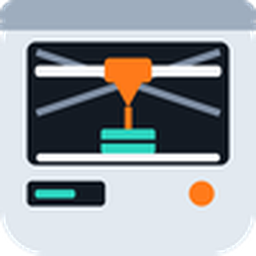
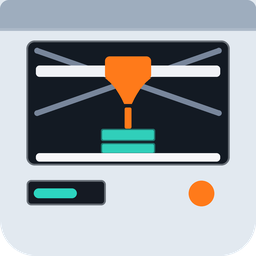
assets: ストア用アイコンを拡大でなく図形で描き直す
100 px を拡大した klipperdeck_256.png はぼやけていたため、同じ CoreXY の
箱型デザインを 100 単位の座標で図形として描き、2048 px から縮小して作る。
描画スクリプトを tools/draw_app_icon.py に置く。ランチャー用の 100 / 80 px は
#25 で小さいサイズ向けに調整したものをそのまま使う。

diff --git a/tools/draw_app_icon.py b/tools/draw_app_icon.py
@@ -1,0 +1,100 @@
+"""Draws the app icon (the CoreXY box printer of assets/images/klipperdeck.png) at store size.
+
+klipperdeck.png, klipperdeck_100.png and klipperdeck_80.png are the hand-tuned launcher sizes.
+The store needs a square PNG of 128 to 512 px, so this redraws the same design as shapes on the
+100-unit grid of those files, at 2048 px, and scales it down.
+
+Usage: python tools/draw_app_icon.py [output dir]   (default: assets/images)
+Needs Pillow.
+"""
+import sys
+
+from PIL import Image, ImageDraw
+
+OUT = sys.argv[1] if len(sys.argv) > 1 else "assets/images"
+S = 2048
+k = S / 100.0
+
+TOP_BAND = (158, 173, 190)
+TOP_EDGE = (172, 185, 200)
+BODY = (226, 233, 240)
+OUTLINE = (103, 110, 118)
+WINDOW = (19, 26, 35)
+BELT = (120, 134, 155)
+RAIL = (240, 242, 246)
+ORANGE = (255, 122, 26)
+TEAL = (48, 207, 186)
+TEAL_DARK = (32, 116, 110)
+BED = (247, 247, 250)
+PANEL = (21, 26, 35)
+SCREEN = (45, 213, 192)
+
+
+def p(*xy):
+    return [v * k for v in xy]
+
+
+img = Image.new("RGBA", (S, S), (0, 0, 0, 0))
+d = ImageDraw.Draw(img)
+
+
+def rrect(box, r, fill, corners=None, outline=None, width=0):
+    d.rounded_rectangle(p(*box), radius=r * k, fill=fill, corners=corners,
+                        outline=outline, width=int(round(width * k)))
+
+
+def line(a, b, w, fill):
+    d.line(p(*a, *b), fill=fill, width=int(round(w * k)))
+    for x, y in (a, b):
+        r = w / 2
+        d.ellipse(p(x - r, y - r, x + r, y + r), fill=fill)
+
+
+# Enclosure: small radius on top, large at the bottom.
+rrect((0, 0, 100, 100), 14, BODY, corners=(False, False, True, True))
+rrect((0, 0, 100, 30), 3.5, BODY, corners=(True, True, False, False))
+# Top band with a lighter lower edge.
+rrect((0, 0, 100, 12), 3.5, TOP_BAND, corners=(True, True, False, False))
+d.rectangle(p(0, 11, 100, 12), fill=TOP_EDGE)
+
+# Front window.
+rrect((10.3, 15.8, 89.7, 64.6), 3.2, WINDOW, outline=OUTLINE, width=0.7)
+
+# CoreXY belts (crossing behind the print head).
+line((14.5, 19.8), (48, 31.5), 2.2, BELT)
+line((85.5, 19.8), (52, 31.5), 2.2, BELT)
+line((14.5, 44.2), (48, 32.5), 2.2, BELT)
+line((85.5, 44.2), (52, 32.5), 2.2, BELT)
+
+# Gantry rail.
+rrect((14, 25.6, 86, 30), 1.4, RAIL)
+
+# Print head: block, funnel and nozzle.
+rrect((41, 22, 59, 31), 1.8, ORANGE)
+def bezier(a, c, b, n=24):
+    return [((1 - t) ** 2 * a[0] + 2 * (1 - t) * t * c[0] + t * t * b[0],
+             (1 - t) ** 2 * a[1] + 2 * (1 - t) * t * c[1] + t * t * b[1])
+            for t in (i / n for i in range(n + 1))]
+
+
+right = bezier((59, 30.5), (54.6, 33.6), (51.5, 40.6))
+left = [(100 - x, y) for x, y in reversed(right)]
+d.polygon([v * k for pt in right + left for v in pt], fill=ORANGE)
+rrect((48.7, 42, 51.3, 50.2), 0.6, ORANGE)
+
+# Printed object: two teal layers with darker edges.
+rrect((39.4, 50.3, 60.6, 55.1), 0.8, TEAL_DARK)
+rrect((39.9, 50.8, 60.1, 54.6), 0.6, TEAL)
+rrect((39.4, 55.8, 60.6, 59.9), 0.8, TEAL_DARK)
+rrect((39.9, 56.3, 60.1, 59.6), 0.6, TEAL)
+
+# Bed.
+rrect((14, 59.8, 86, 63.1), 1.4, BED)
+
+# Control panel with a screen bar, and the status dot.
+rrect((10.4, 70.3, 41.3, 80.2), 1.8, PANEL, outline=OUTLINE, width=0.7)
+rrect((13.2, 73.6, 30, 77.4), 1.9, SCREEN)
+d.ellipse(p(73.7, 70.6, 83.7, 80.6), fill=ORANGE)
+
+img.resize((256, 256), Image.LANCZOS).save(f"{OUT}/klipperdeck_256.png", optimize=True)
+print(f"wrote {OUT}/klipperdeck_256.png")
